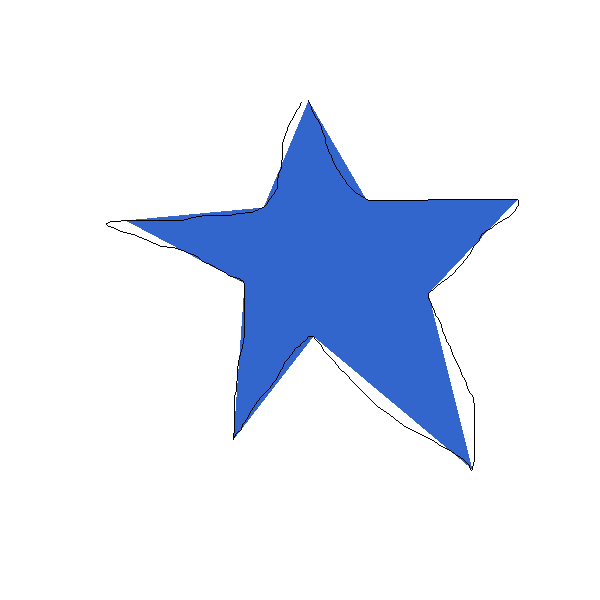
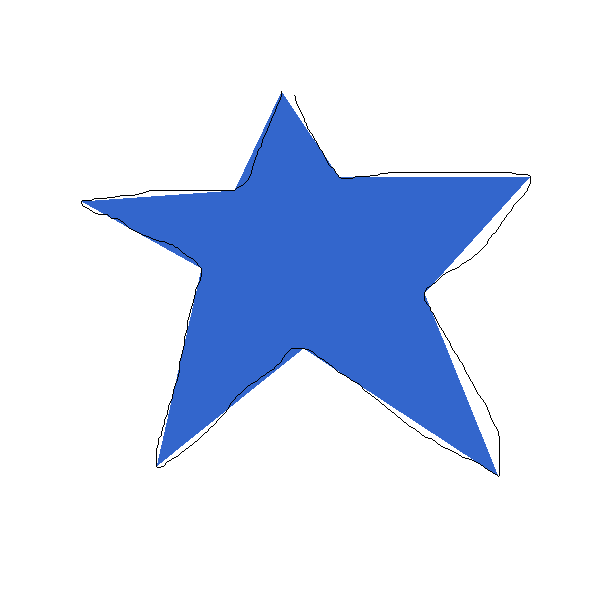
select first point, instead corner

diff --git a/src/main/java/ru/snake/recognize/shape/PolylineRecognizer.java b/src/main/java/ru/snake/recognize/shape/PolylineRecognizer.java
@@ -2,8 +2,6 @@ package ru.snake.recognize.shape;
 
 import java.awt.Point;
 import java.util.ArrayList;
-import java.util.Collections;
-import java.util.Comparator;
 import java.util.List;
 import java.util.function.Function;
 
@@ -19,8 +17,6 @@ public class PolylineRecognizer {
 
 	private final double[] filtered;
 
-	private final List<IndexValue> candidates;
-
 	private final List<Integer> pointIndexes;
 
 	private final List<Point> polygonPoints;
@@ -28,7 +24,6 @@ public class PolylineRecognizer {
 	public PolylineRecognizer() {
 		this.peakKernel = Kernel.peakDetect(Algorithm.DATA_SIZE);
 		this.filtered = new double[Algorithm.DATA_SIZE];
-		this.candidates = new ArrayList<>();
 		this.pointIndexes = new ArrayList<>();
 		this.polygonPoints = new ArrayList<>();
 	}
@@ -53,52 +48,12 @@ public class PolylineRecognizer {
 		}
 
 		// --------------------------------------------------------------------
-		// Find best point for every peak.
-		boolean inPoint = true;
-		double maxValue = filtered[startIndex];
-		int maxIndex = indexes[startIndex];
-
-		candidates.clear();
-
-		for (int index = 0; index < filtered.length; index += 1) {
-			int offset = index + startIndex;
-
-			if (offset >= filtered.length) {
-				offset -= filtered.length;
-			}
-
-			double value = filtered[offset];
-
-			if (value >= CORNER_THRESHOLD && inPoint) {
-				if (maxValue < value) {
-					maxValue = value;
-					maxIndex = offset;
-				}
-			} else if (value >= CORNER_THRESHOLD && !inPoint) {
-				maxValue = value;
-				maxIndex = offset;
-				inPoint = true;
-			} else if (value < CORNER_THRESHOLD && inPoint) {
-				Distance distance = distances.get(indexes[maxIndex]);
-				IndexValue indexValue = new IndexValue(distance.index, maxValue);
-				candidates.add(indexValue);
-				inPoint = false;
-			} else if (value < CORNER_THRESHOLD && !inPoint) {
-				// Not in point, do nothing
-			}
-		}
-
-		Collections.sort(candidates, Comparator.comparingDouble((IndexValue iv) -> iv.value).reversed());
-
+		// Start building line from first point.
 		pointIndexes.clear();
 		polygonPoints.clear();
 
-		if (candidates.isEmpty()) {
-			return;
-		}
-
-		pointIndexes.add(candidates.get(0).index);
-		polygonPoints.add(points.get(candidates.get(0).index));
+		pointIndexes.add(0);
+		polygonPoints.add(points.get(0));
 
 		int farIndex = 0;
 		double farDistance = Double.MIN_VALUE;
